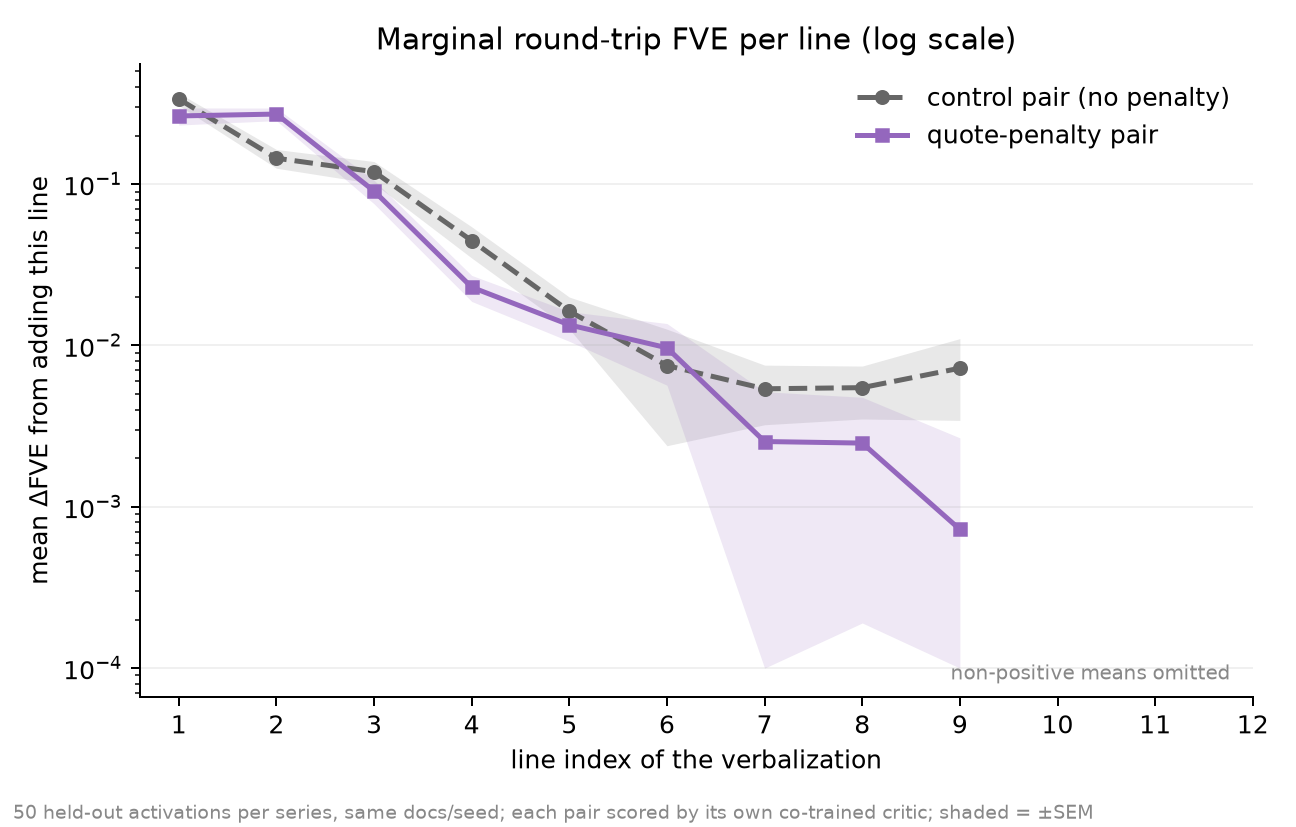
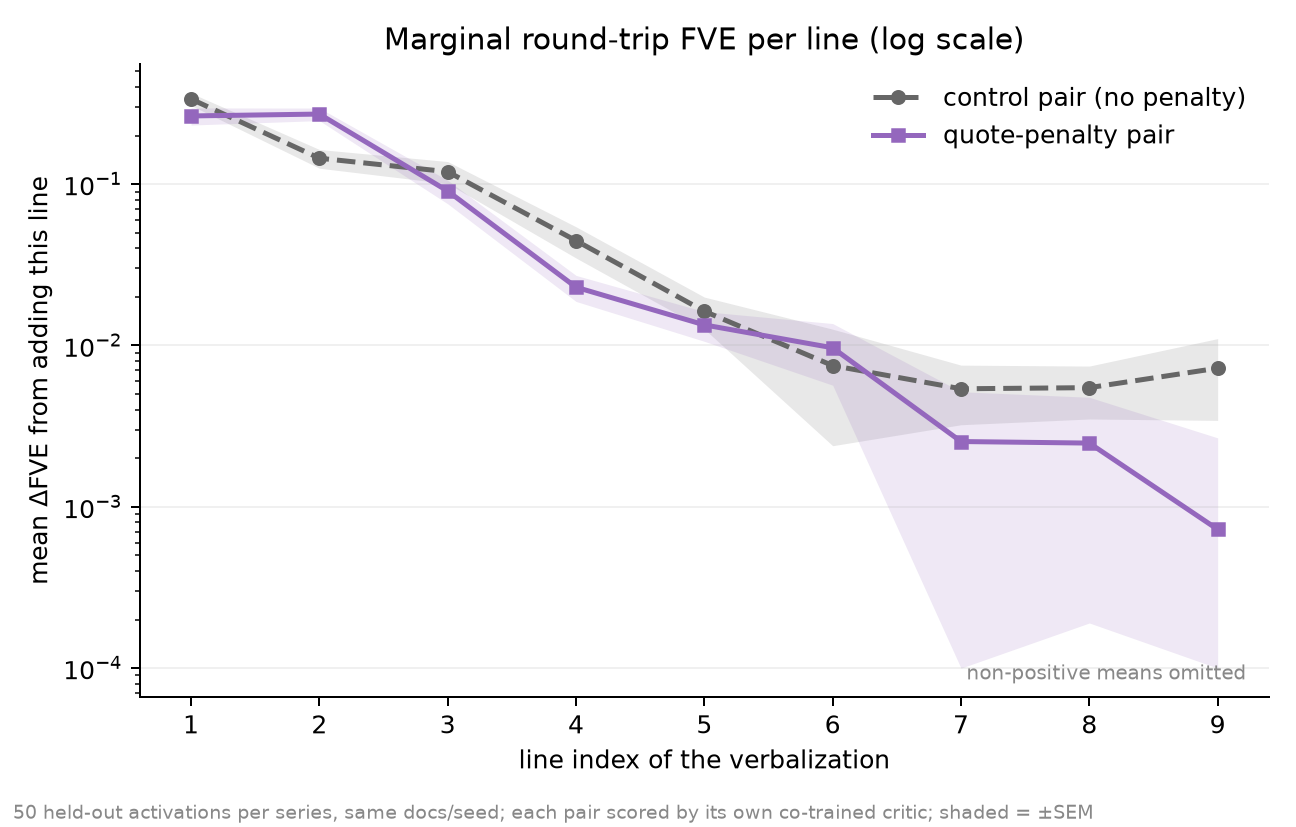
🎨 marginal-FVE figures: cap at line 9 (drop the thin noisy tail)
Claude-Session: https://claude.ai/code/session_016mZoE5r73zpRomNLbakUWu

diff --git a/experiments/v3qf-quote-free-rl/plot_marginal_fve.py b/experiments/v3qf-quote-free-rl/plot_marginal_fve.py
@@ -17,7 +17,7 @@ import matplotlib.pyplot as plt
 import numpy as np
 
 CONTROL, QF = sys.argv[1], sys.argv[2]
-KMAX = 12          # line index cap (deeper lines exist in <~30% of samples)
+KMAX = 9           # line index cap (deeper lines exist in <~30% of samples)
 MIN_N = 15         # need at least this many samples contributing at index k
 
 SERIES = [
